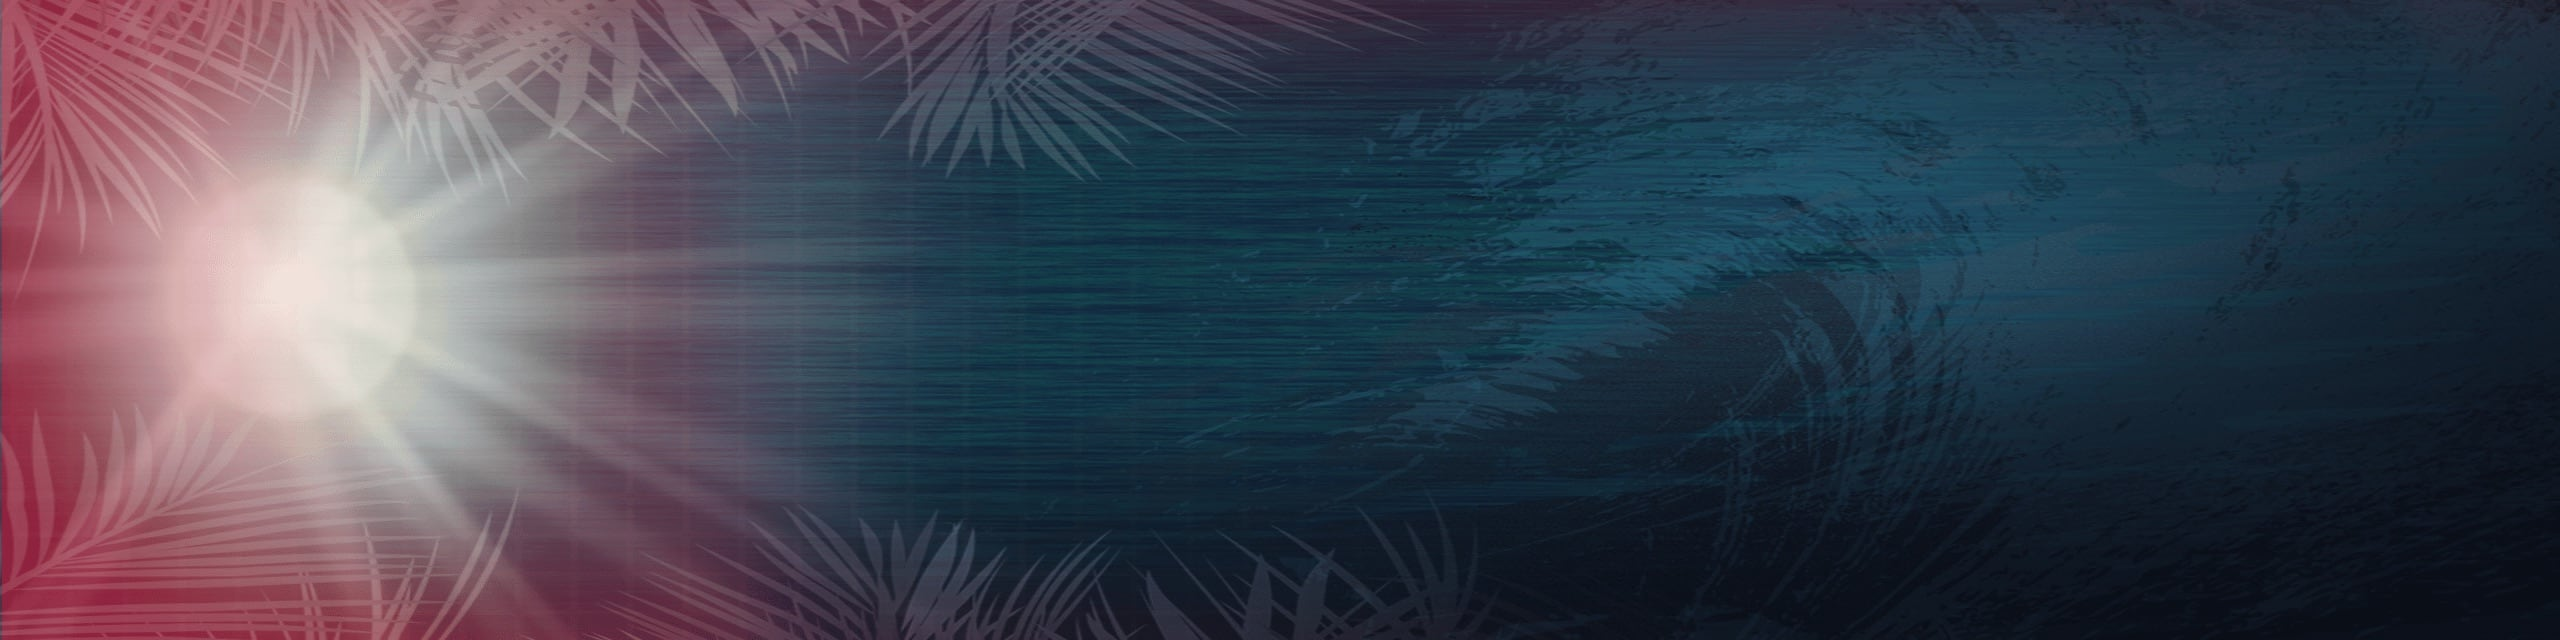
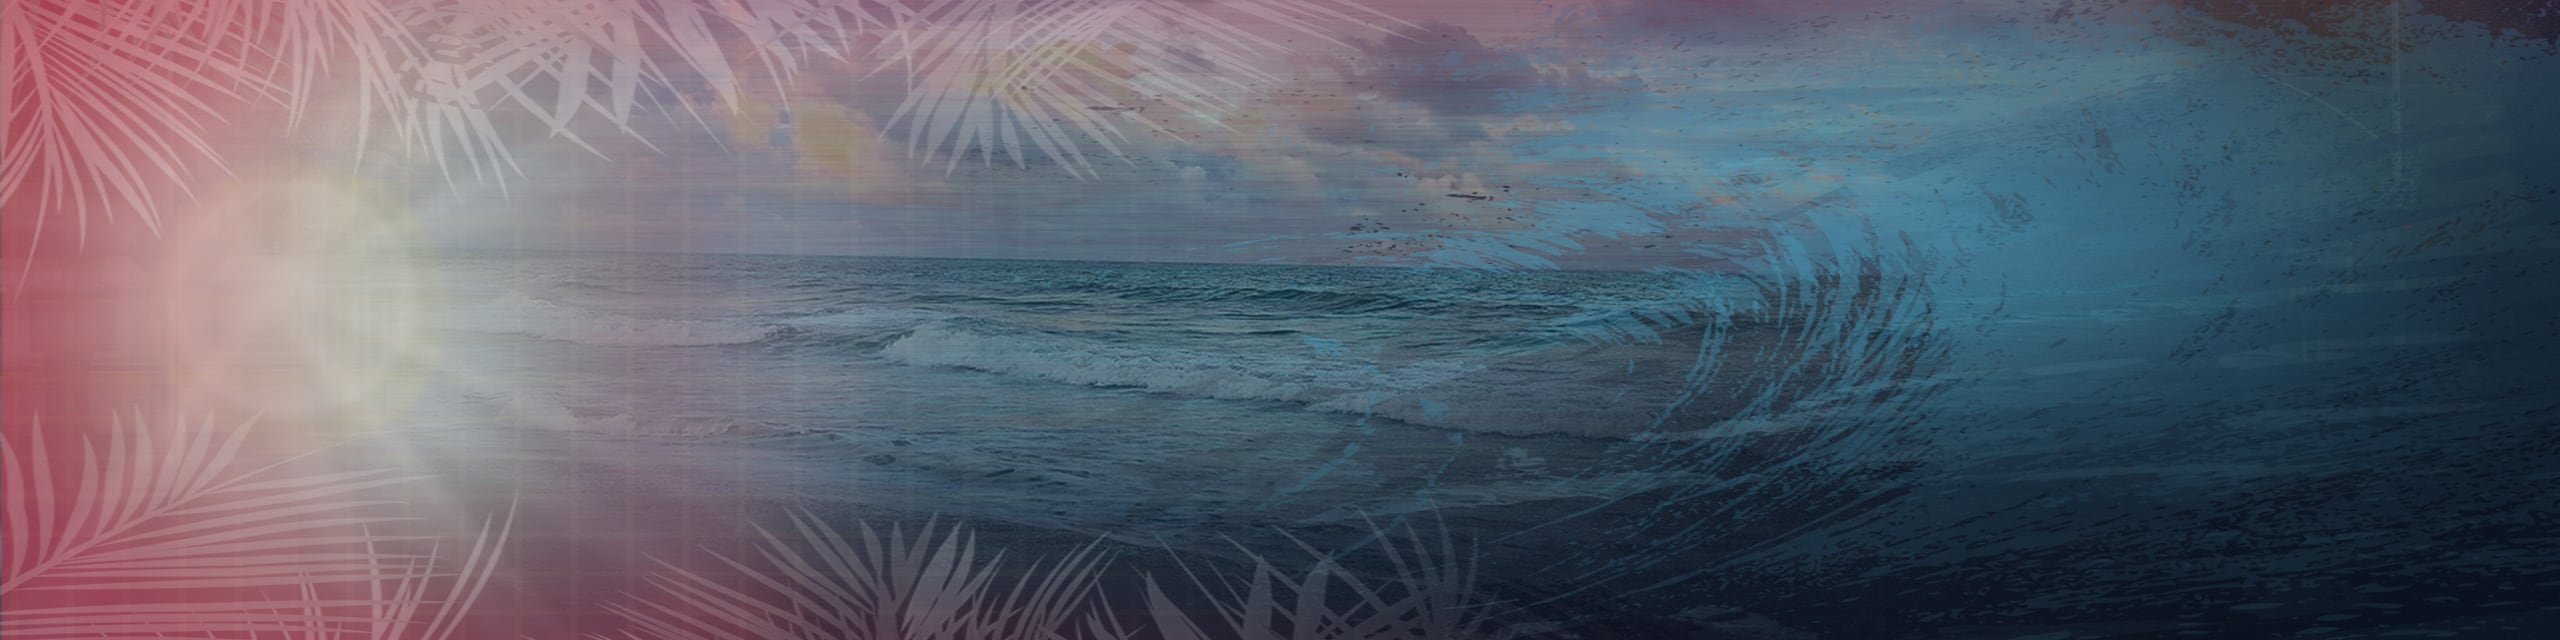
updated layout on home, changed youtube embed, update home image

diff --git a/_layouts/home.html b/_layouts/home.html
@@ -4,7 +4,7 @@ layout: base
 
 <section class="jumbotron text-center home-jumbotron jumbotron-fluid">
     <div class="container">
-      <h1 class="jumbotron-heading">we are OPEN SAN DIEGO</h1>
+      <h1 class="jumbotron-heading">We are Open San Diego</h1>
       <p class="mt-2">
         <a target="_blank" class="btn btn-primary" href="https://www.meetup.com/Open-San-Diego/" alt="Clicking this button will take you to our Meetup.com page where we post our events.">
             <i class="fa fa-meetup"></i> RSVP on Meetup 
@@ -23,21 +23,25 @@ layout: base
 
 <div class="container">
 
-    <div class="container py-2">
-        <h2 class="display-4">Who we are.</h2>
-      <p class="lead">We are San Diegans who believe a healthier interface between government and technology leads to a healthier democracy and more vibrant civic life. We care about our communities, our fellow citizens, and our civic institutions, and work together to support and bolster our Public. We are a chapter of the national, non-partisan Code for America, leveraging their resources, but focused on our own local issues. We welcome our fellow San Diegans of every skill level and background to be a part of this movement!</p>
+    <div class="row py-2">
+        <div class="col-sm"> 
+            <h2 class="display-4">Who we are.</h2>
+          <p>We are San Diegans who believe a healthier interface between government and technology leads to a healthier democracy and more vibrant civic life. We care about our communities, our fellow citizens, and our civic institutions, and work together to support and bolster our Public. We are a chapter of the national, non-partisan Code for America, leveraging their resources, but focused on our own local issues. We welcome our fellow San Diegans of every skill level and background to be a part of this movement!</p>
+        </div>
     </div>
 
-    <div class="container py-3">
-        <h2 class="display-4">The things we care about.</h2>
-        <p>Mission: We strengthen San Diego citizens’ experience as among the best in the nation, by assisting San Diegans who want to collaborate and create a more engaged, efficient, and effective democracy and civic life.</p>
-        <p>Vision: A thriving regional San Diego ecosystem, whose people, environment, and economy are supported by data, information, and insights. 
-        <h3 class="display-5">Our Values:</h3>
-        <ul>
-            <li>We are human-centered, focusing on ultimately improving our shared public’s lives for all (learn more about <a href="https://www.codeforamerica.org/values">Code for America's Values</a>)</li>
-            <li>We are data-informed, focusing on opening up and utilizig public data to help make better informed decisions (learn more about <a href="https://data.sandiego.gov/get-started/">San Diego Gov Open Data</a>)</li> 
-            <li>We are non-partisan, focusing on being accepting and respectful of all people (learn more in our <a href="code_of_conduct.html">Code of Conduct</a>)</li>
-        </ul>
+    <div class="row py-3">
+        <div class="col-sm"> 
+            <h2 class="display-4">The things we care about.</h2>
+            <p>Mission: We strengthen San Diego citizens’ experience as among the best in the nation, by assisting San Diegans who want to collaborate and create a more engaged, efficient, and effective democracy and civic life.</p>
+            <p>Vision: A thriving regional San Diego ecosystem, whose people, environment, and economy are supported by data, information, and insights. 
+            <h3 class="display-5">Our Values:</h3>
+            <ul>
+                <li>We are human-centered, focusing on ultimately improving our shared public’s lives for all (learn more about <a href="https://www.codeforamerica.org/values">Code for America's Values</a>)</li>
+                <li>We are data-informed, focusing on opening up and utilizig public data to help make better informed decisions (learn more about <a href="https://data.sandiego.gov/get-started/">San Diego Gov Open Data</a>)</li> 
+                <li>We are non-partisan, focusing on being accepting and respectful of all people (learn more in our <a href="code_of_conduct.html">Code of Conduct</a>)</li>
+            </ul>
+        </div>
     </div>
 
     <div class="card-deck mb-3">
@@ -88,18 +92,18 @@ layout: base
     </div>
 
     <h2>Code for America</h2>
-    <div class="container"> 
-        <div class="row">
-            <div class="col-sm-7 text-center">
+    <div class="row"> 
+        <div class="col-sm-7">
+            <div class="embed-responsive embed-responsive-16by9 mb-3">
                 <iframe class="youtube-iframe" src="https://www.youtube.com/embed/pTKJwFOgVuM" frameborder="0" allow="accelerometer; autoplay; encrypted-media; gyroscope; picture-in-picture" allowfullscreen></iframe>
             </div>
-            <div class="col-sm-5">
+        </div>
+        <div class="col-sm-5">
                 <img height="50px" src="/media/images/cfa_brigade_logo.png" alt="Code For America" />
                 <p>We are a <a href="https://brigade.codeforamerica.org/" target="_blank">Code for America Brigade</a>, which means we’re civic-minded volunteers of techies, creatives, business people and other civic-stakeholders that contribute our talents toward improving the way our local governments and community organizations work.</p>
     
                 <p><a href="http://brigade.codeforamerica.org/about/" target="_blank">See what kind of things brigades do</a>, and watch the <a href="https://www.ted.com/talks/jennifer_pahlka_coding_a_better_government" target="_blank"> TED talk given by Jennifer Pahlka, Founder of Code for America.</a></p>
-            </div>
-        </div>
+       </div>
     </div>
       
     {% include footer.html section="Footer" %}

diff --git a/css/main.scss b/css/main.scss
@@ -52,21 +52,4 @@ html {
     border-radius: 0px;
 }
 
-.youtube-iframe{
-    @media (max-width: 600px) {
-      width: 283px;
-      height: 159px;
-    } 
-    @media (min-width: 600px) {
-      width: 316px;
-      height: 177px;
-    } 
-    @media (min-width: 768px) {
-      width: 411px;
-      height: 228px;
-    } 
-    @media (min-width: 992px) {
-      width: 492px;
-      height: 275px;  
-  } 
-}
+

diff --git a/css/main.css b/css/main.css
@@ -291,7 +291,7 @@ template {
 h1, h2, h3, h4, h5, h6,
 .h1, .h2, .h3, .h4, .h5, .h6 {
   margin-bottom: 0.5rem;
-  font-family: inherit;
+  font-family: "Roboto Slab", serif;
   font-weight: 500;
   line-height: 1.2;
   color: inherit; }
